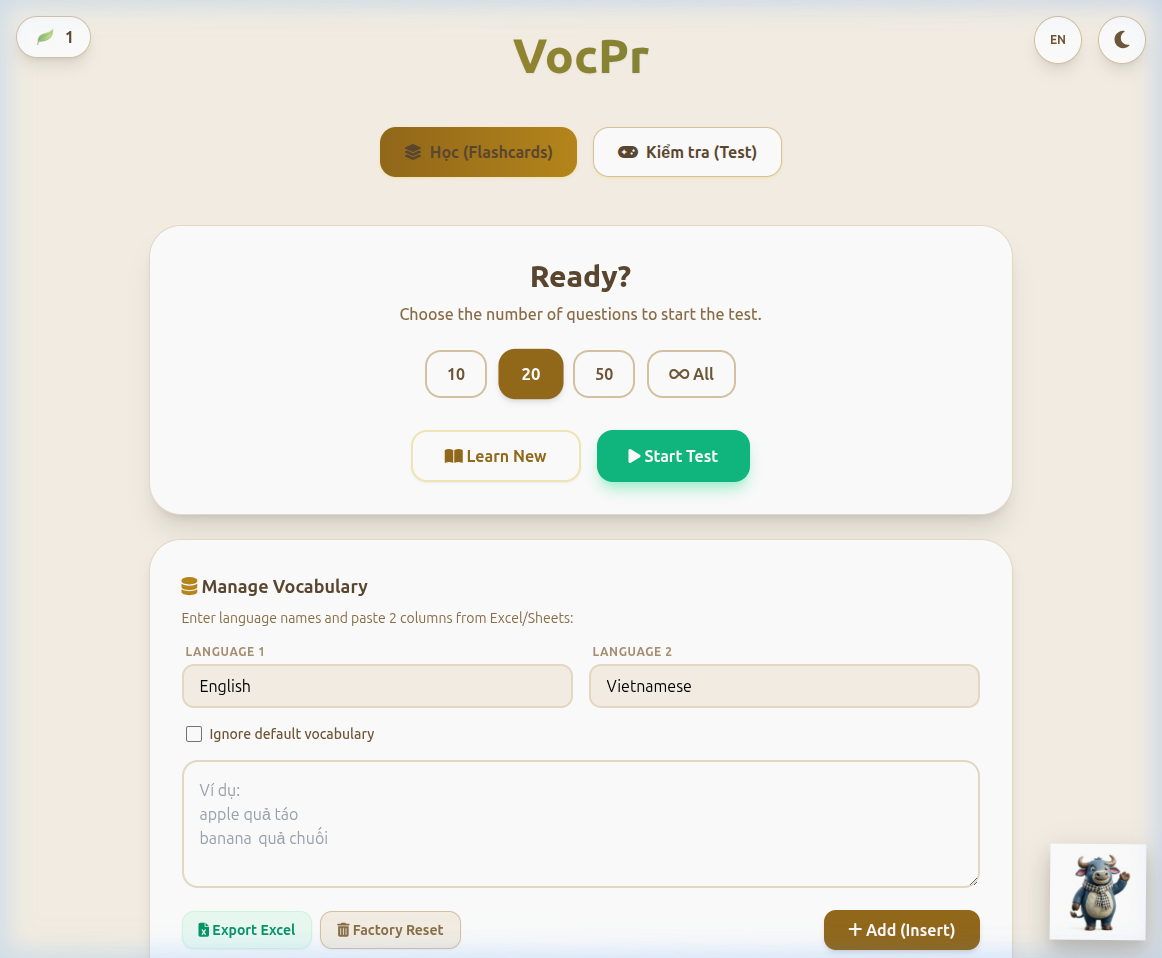
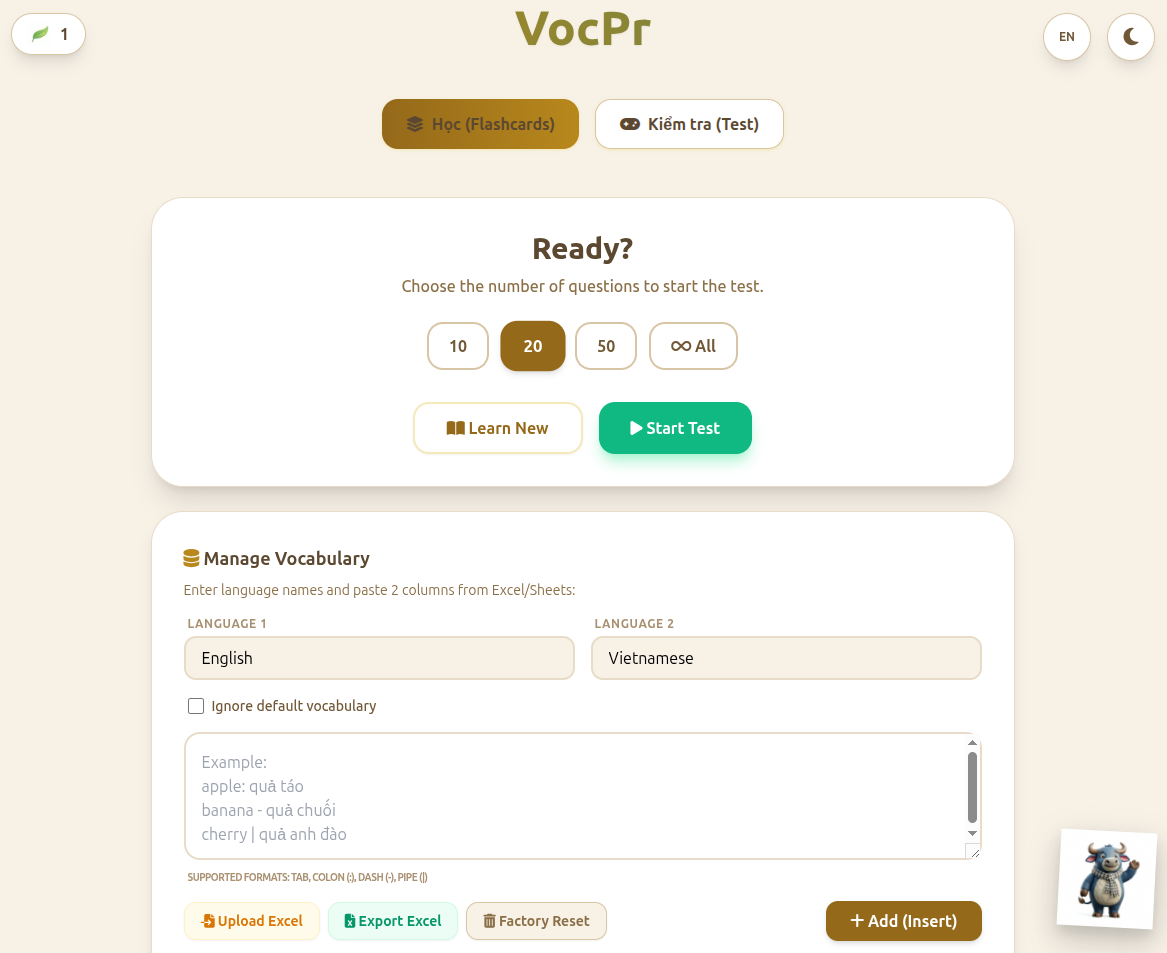
Feat: Hỗ trợ nhập Excel/CSV, Kéo & Thả và cải tiến bộ phân tích dữ liệu

Changed region(s): [[0.0, 0.0, 1.0, 1.0], [0.8055, 0.7912, 0.8675, 0.8825]]

diff --git a/assets/app.js b/assets/app.js
@@ -98,7 +98,9 @@ const I18N_STRINGS = {
         reset_confirm: "WARNING: This will delete ALL custom vocabulary, history, and settings. The app will return to its initial default state (with sample vocabulary). Proceed?",
         ignore_base_vocab: "Ignore default vocabulary",
         no_vocab_warning: "No vocabulary found. Please add new words or check your settings.",
-        no_vocab_test_warning: "No valid vocabulary to start the test."
+        no_vocab_test_warning: "No valid vocabulary to start the test.",
+        import_placeholder: "Example:\napple: quả táo\nbanana - quả chuối\ncherry | quả anh đào",
+        import_help: "Supported formats: Tab, Colon (:), Dash (-), Pipe (|)"
     },
     vi: {
         ready: "Sẵn sàng chưa?",
@@ -155,7 +157,9 @@ const I18N_STRINGS = {
         reset_confirm: "CẢNH BÁO: Hành động này sẽ xóa TOÀN BỘ từ vựng bạn đã thêm, lịch sử và cài đặt. Ứng dụng sẽ quay về trạng thái mặc định ban đầu (có từ vựng mẫu). Bạn có chắc chắn không?",
         ignore_base_vocab: "Bỏ qua từ vựng mặc định",
         no_vocab_warning: "Không có từ vựng nào để học. Vui lòng thêm từ mới hoặc kiểm tra cài đặt.",
-        no_vocab_test_warning: "Không có từ vựng nào hợp lệ để bắt đầu bài kiểm tra."
+        no_vocab_test_warning: "Không có từ vựng nào hợp lệ để bắt đầu bài kiểm tra.",
+        import_placeholder: "Ví dụ:\napple: quả táo\nbanana - quả chuối\ncherry | quả anh đào",
+        import_help: "Định dạng hỗ trợ: Tab, Dấu hai chấm (:), Gạch ngang (-), Dấu gạch đứng (|)"
     }
 };
 
@@ -563,8 +567,9 @@ function render() {
     // After render hooks
     if (currentState.mode === 'test') {
         focusInput();
-    } else if (currentState.mode === 'home' && currentState.history.length > 0) {
-        setTimeout(renderChart, 50);
+    } else if (currentState.mode === 'home') {
+        if (currentState.history.length > 0) setTimeout(renderChart, 50);
+        setupDragAndDrop();
     }
 }
 
@@ -660,9 +665,12 @@ function renderHome(container) {
                     <label for="ignore-base-checkbox" class="text-sm font-medium text-slate-600 dark:text-slate-400 cursor-pointer select-none">${t('ignore_base_vocab')}</label>
                 </div>
 
-                <textarea id="vocab-import-input" class="w-full h-32 p-4 border-2 border-slate-100 dark:border-slate-600 bg-transparent dark:text-white rounded-2xl mb-4 focus:border-indigo-500 outline-none transition resize-y" placeholder="Ví dụ:&#10;apple&#9;quả táo&#10;banana&#9;quả chuối"></textarea>
+                <textarea id="vocab-import-input" class="w-full h-32 p-4 border-2 border-slate-100 dark:border-slate-600 bg-transparent dark:text-white rounded-2xl mb-1 focus:border-indigo-500 outline-none transition resize-y" placeholder="${t('import_placeholder')}"></textarea>
+                <p class="text-[10px] font-bold text-slate-400 dark:text-slate-500 mb-4 ml-1 uppercase tracking-tighter">${t('import_help')}</p>
                 <div class="flex justify-between items-center flex-wrap gap-4">
                     <div class="flex gap-2">
+                        <input type="file" id="excel-upload" accept=".xlsx, .xls, .csv" class="hidden" onchange="window.handleFileUpload(event)">
+                        <button onclick="document.getElementById('excel-upload').click()" class="bg-amber-50 dark:bg-amber-900/30 text-amber-600 dark:text-amber-400 px-4 py-2 rounded-xl font-bold hover:scale-105 transition shadow-sm text-sm border border-amber-100 dark:border-amber-800/50" title="Upload Excel/CSV"><i class="fa-solid fa-file-import"></i> Upload Excel</button>
                         <button onclick="window.exportVocabToExcel()" class="bg-emerald-50 dark:bg-emerald-900/30 text-emerald-600 dark:text-emerald-400 px-4 py-2 rounded-xl font-bold hover:scale-105 transition shadow-sm text-sm border border-emerald-100 dark:border-emerald-800/50" title="${t('export_excel')}"><i class="fa-solid fa-file-excel"></i> ${t('export_excel')}</button>
                         <button onclick="window.factoryReset()" class="bg-slate-50 dark:bg-slate-700 text-slate-500 dark:text-slate-400 px-4 py-2 rounded-xl font-bold hover:scale-105 transition shadow-sm text-sm border border-slate-200 dark:border-slate-600" title="${t('factory_reset')}"><i class="fa-solid fa-trash-can"></i> ${t('factory_reset')}</button>
                     </div>
@@ -1061,12 +1069,40 @@ function parseVocabData(rawData) {
     const results = [];
     const processedThisTime = new Set();
 
+    // Delimiter priority: Tab > Colon > Dash (with spaces) > Pipe
+    // Regex explanation:
+    // \t : Tab
+    // \s*[:|]\s* : Colon or Pipe with optional surrounding spaces
+    // \s+-\s+ : Dash with at least one space on both sides
+    const delimiterRegex = /\t|\s*[:|]\s*|\s+-\s+/;
+
     for (let line of lines) {
-        if (!line.trim()) continue;
-        const parts = line.split('\t');
+        const trimmedLine = line.trim();
+        if (!trimmedLine) continue;
+
+        // Try to find the best delimiter
+        let parts = [];
+        if (line.includes('\t')) {
+            parts = line.split('\t');
+        } else {
+            // Split by the first occurrence of any supported delimiter
+            const match = line.match(delimiterRegex);
+            if (match) {
+                const sep = match[0];
+                const firstIdx = line.indexOf(sep);
+                parts = [
+                    line.substring(0, firstIdx),
+                    line.substring(firstIdx + sep.length)
+                ];
+            }
+        }
+
         if (parts.length >= 2) {
             const t1Word = parts[0].trim();
             const t2Word = parts[1].trim();
+            
+            if (!t1Word || !t2Word) continue;
+
             const t1Lower = t1Word.toLowerCase();
 
             if (processedThisTime.has(t1Lower)) {
@@ -1280,12 +1316,101 @@ function exportVocabToExcel() {
     document.body.removeChild(link);
 }
 
+function handleFileUpload(event) {
+    const file = event.target.files[0];
+    if (!file) return;
+
+    const reader = new FileReader();
+    reader.onload = function(e) {
+        try {
+            const data = new Uint8Array(e.target.result);
+            const workbook = XLSX.read(data, {type: 'array'});
+            const firstSheetName = workbook.SheetNames[0];
+            const worksheet = workbook.Sheets[firstSheetName];
+            
+            // Convert to array of arrays (header: 1)
+            const rows = XLSX.utils.sheet_to_json(worksheet, {header: 1});
+            
+            let tsvContent = "";
+            rows.forEach(row => {
+                if (row && row.length >= 2) {
+                    const t1 = row[0] ? String(row[0]).trim() : "";
+                    const t2 = row[1] ? String(row[1]).trim() : "";
+                    if (t1 && t2) {
+                        tsvContent += `${t1}\t${t2}\n`;
+                    }
+                }
+            });
+
+            if (tsvContent) {
+                const input = document.getElementById('vocab-import-input');
+                if (input) {
+                    input.value = tsvContent;
+                    // Auto-trigger import review
+                    importVocab();
+                }
+            } else {
+                alert("Không tìm thấy dữ liệu hợp lệ trong file (cần ít nhất 2 cột).");
+            }
+        } catch (err) {
+            console.error("Excel processing failed", err);
+            alert("Lỗi khi xử lý file. Vui lòng kiểm tra định dạng.");
+        }
+    };
+    reader.readAsArrayBuffer(file);
+    // Reset input so the same file can be uploaded again if needed
+    event.target.value = '';
+}
+
+function setupDragAndDrop() {
+    const textarea = document.getElementById('vocab-import-input');
+    if (!textarea) return;
+
+    const preventDefault = (e) => {
+        e.preventDefault();
+        e.stopPropagation();
+    };
+
+    textarea.addEventListener('dragover', (e) => {
+        preventDefault(e);
+        textarea.classList.add('border-indigo-500', 'bg-indigo-50/50', 'dark:bg-indigo-900/20');
+    });
+
+    textarea.addEventListener('dragleave', (e) => {
+        preventDefault(e);
+        textarea.classList.remove('border-indigo-500', 'bg-indigo-50/50', 'dark:bg-indigo-900/20');
+    });
+
+    textarea.addEventListener('drop', (e) => {
+        preventDefault(e);
+        textarea.classList.remove('border-indigo-500', 'bg-indigo-50/50', 'dark:bg-indigo-900/20');
+        
+        const files = e.dataTransfer.files;
+        if (files.length > 0) {
+            const file = files[0];
+            const ext = file.name.split('.').pop().toLowerCase();
+            if (['xlsx', 'xls', 'csv'].includes(ext)) {
+                const event = { target: { files: [file] } };
+                handleFileUpload(event);
+            } else {
+                const reader = new FileReader();
+                reader.onload = (rev) => {
+                    textarea.value = rev.target.result;
+                    importVocab();
+                };
+                reader.readAsText(file);
+            }
+        }
+    });
+}
+
 // Ensure global access
 window.clearReviewHistory = clearReviewHistory;
 window.clearRecentHistory = clearRecentHistory;
 window.importVocab = importVocab;
 window.confirmImport = confirmImport;
 window.exportVocabToExcel = exportVocabToExcel;
+window.handleFileUpload = handleFileUpload;
 
 window.onload = () => { 
     init(); 

diff --git a/index.html b/index.html
@@ -34,9 +34,10 @@
             }
         }
     </script>
-    <!-- FontAwesome & Chart.js -->
+    <!-- FontAwesome, Chart.js & SheetJS -->
     <link rel="stylesheet" href="https://cdnjs.cloudflare.com/ajax/libs/font-awesome/6.4.0/css/all.min.css">
     <script src="https://cdn.jsdelivr.net/npm/chart.js"></script>
+    <script src="https://cdn.jsdelivr.net/npm/xlsx@0.18.5/dist/xlsx.full.min.js"></script>
     <link rel="stylesheet" href="assets/styles.css">
 </head>
 

diff --git a/README.md b/README.md
@@ -10,19 +10,21 @@
 
 Ứng dụng web học từ vựng đa ngôn ngữ ngoại tuyến. Hỗ trợ bất kỳ cặp ngôn ngữ nào (ví dụ: Anh-Việt, Trung-Nhật, v.v.) và chạy hoàn toàn trên trình duyệt, không yêu cầu thiết lập máy chủ.
 
-### ✨ Các tính năng chính
+### ✨ Các tính năng nổi bật
 
-- 📖 **Chế độ Học (Flashcards):** Xem từ vựng và nghĩa giữa hai ngôn ngữ bất kỳ với hiệu ứng lật thẻ tương tác.
-- 📝 **Chế độ Kiểm tra (Test):** Đa dạng các loại bài tập giúp củng cố trí nhớ:
-  - Nhập liệu (Typing)
-  - Trắc nghiệm (Multiple Choice)
-  - Ghép cặp (Matching)
-- ⚙ **Cấu hình bài thi:** Tùy chỉnh số lượng câu hỏi mỗi bài kiểm tra (10, 20, 50, hoặc tất cả).
-- 📊 **Theo dõi lịch sử:** Tự động lưu kết quả bài thi và danh sách từ làm sai để ôn tập. Hỗ trợ tính năng xóa lịch sử học tập.
-- 📥 **Quản lý từ vựng (Nhập/Xuất hàng loạt):**
-  - Dễ dàng thêm hoặc cập nhật từ vựng bằng cách sao chép 2 cột dữ liệu từ Excel/Google Sheets và dán vào phần nhập liệu.
-  - Tự động nhận diện và bổ sung nghĩa mới nếu từ vựng đã tồn tại.
-- Xuất toàn bộ danh sách từ vựng hiện tại ra định dạng Excel (.tsv).
+- 🌏 **Hỗ trợ đa ngôn ngữ (i18n):** Giao diện linh hoạt giữa Tiếng Việt và Tiếng Anh.
+- 🧩 **Tùy biến cặp ngôn ngữ:** Tự định nghĩa tên ngôn ngữ (L1/L2) cho bộ từ vựng của riêng bạn.
+- 📖 **Chế độ Học (Flashcards):** Trải nghiệm lật thẻ mượt mà với hiệu ứng glassmorphism hiện đại.
+- 📝 **Chế độ Kiểm tra (Test) thông minh:** 
+  - Đa dạng loại câu hỏi: Nhập liệu, Trắc nghiệm, Ghép cặp.
+  - Tự động xáo trộn và tạo câu hỏi từ cả hai chiều (L1 ↔ L2).
+- 📥 **Quản lý dữ liệu mạnh mẽ:**
+  - **Nhập liệu linh hoạt:** Hỗ trợ copy-paste từ Excel với nhiều dấu phân cách (`Tab`, `:`, `-`, `|`).
+  - **Tải file trực tiếp:** Hỗ trợ upload file `.xlsx`, `.xls`, `.csv`.
+  - **Drag & Drop:** Kéo thả file trực tiếp vào vùng nhập liệu để xử lý tức thì.
+  - **Bảng kiểm soát (Review):** Xem và xác nhận dữ liệu (từ mới, cập nhật nghĩa) trước khi lưu vào máy.
+- 📊 **Theo dõi tiến độ:** Biểu đồ thống kê kết quả, streak học tập hàng ngày và tính năng ôn tập từ vựng làm sai.
+- 🌗 **Chế độ tối (Dark Mode):** Giao diện dịu mắt cho việc học vào ban đêm.
 
 ### 🖼 Giao diện ứng dụng
 
@@ -100,17 +102,19 @@ A universal, offline web application for learning vocabulary in any language pai
 
 ### ✨ Key Features
 
-- 📖 **Learning Mode (Flashcards):** View vocabulary and meanings between any two languages with click/flip card interactions.
-- 📝 **Test Mode:** Various exercise types to reinforce memory:
-  - Typing (Written)
-  - Multiple Choice
-  - Matching
-- ⚙ **Test Configuration:** Users can customize the number of questions per test (10, 20, 50, or all).
-- 📊 **History Tracking:** Automatically saves test results and incorrect words for review. Supports clearing study history.
-- 📥 **Vocabulary Management (Bulk Import / Export):**
-  - Easily add or update vocabulary in bulk by copying any 2 columns of data from Excel/Google Sheets and pasting them into the import section.
-  - Automatically recognizes and adds new meanings if the word already exists.
-  - Export the entire current vocabulary list to Excel (.tsv) format.
+- 🌏 **Internationalization (i18n):** Seamlessly switch the UI between English and Vietnamese.
+- 🧩 **Custom Language Pairs:** Define your own language names (L1/L2) for personalized study sets.
+- 📖 **Learning Mode (Flashcards):** Smooth card-flipping experience with a premium glassmorphism design.
+- 📝 **Smart Test Mode:** 
+  - Multiple question types: Written (Typing), Multiple Choice, and Matching.
+  - Automatic shuffling and bi-directional testing (L1 ↔ L2).
+- 📥 **Advanced Data Management:**
+  - **Flexible Import:** Copy-paste from Excel with support for various delimiters (`Tab`, `:`, `-`, `|`).
+  - **Direct File Upload:** Supports `.xlsx`, `.xls`, and `.csv` files.
+  - **Drag & Drop:** Drop your files directly onto the import area for instant processing.
+  - **Data Review Table:** Verify changes (new words, updated meanings) before committing to storage.
+- 📊 **Progress Tracking:** Interactive statistics charts, daily streaks, and focused review for incorrect words.
+- 🌗 **Dark Mode:** Easy on the eyes for late-night study sessions.
 
 ### 🖼 Application Interface
 
